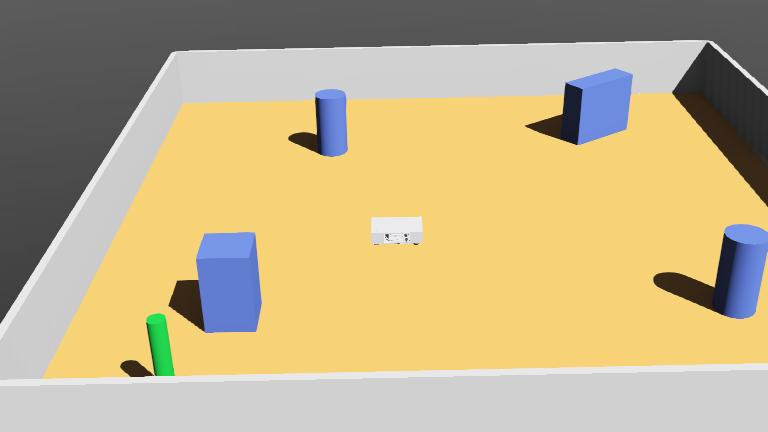
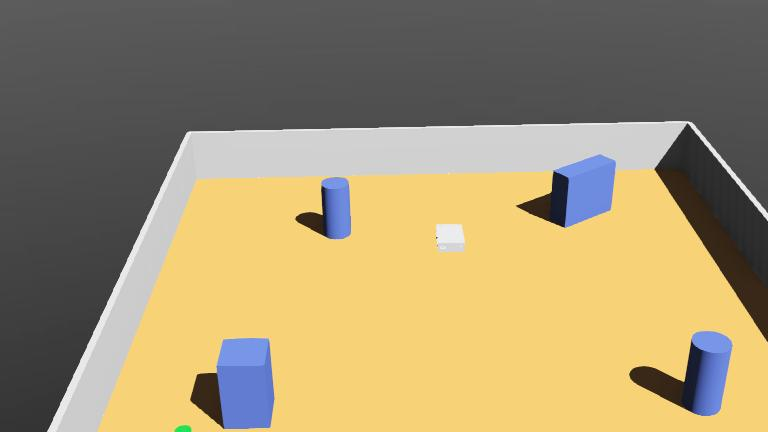
Modified the drive contorller so that the robot dont crash into obsticles. Made script to plot the results

diff --git a/Assignment 2/Problem 4/webots/controllers/slip_controller/slip_controller.py b/Assignment 2/Problem 4/webots/controllers/slip_controller/slip_controller.py
@@ -6,12 +6,12 @@ from controller import Supervisor
 R_W = 0.0625        # wheel radius [m]
 B = 0.2529          # wheel track [m]
 LIDAR_X = 0.19731   # lidar position along robot x [m]
-V_MAX = 0.8         # top speed [m/s]
-ACC = 3.0           # max speed change [m/s^2]
+V_MAX = 0.5         # top speed [m/s]
+ACC = 1.5           # max speed change [m/s^2]
 STOP_DIST = 0.6     # stop when lidar range to goal is below this [m]
 CORRIDOR = 0.5      # half-width of free corridor [m]
-LOOK = 1.2          # corridor length [m]
-V_MIN = 0.2         # slip is undefined below this speed [m/s]
+LOOK = 1.6          # corridor length [m]
+V_MIN = 0         # slip is undefined below this speed [m/s]
 T_MAX = 120.0       # timeout [s]
 INF = float('inf')
 
